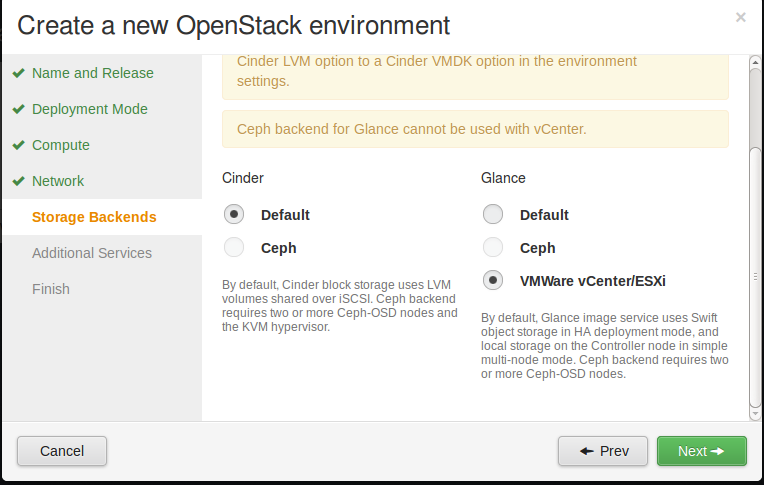
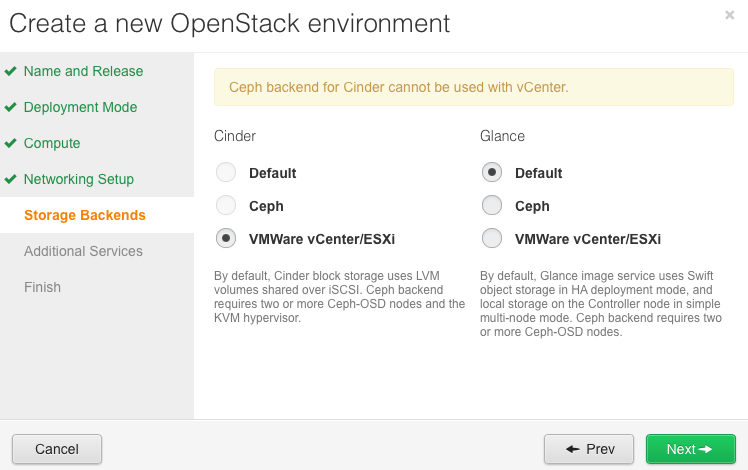
Updates screenshot for vCenter Storage Backend
Parapraph on available option is reworked.

diff --git a/pages/user-guide/7300-vcenter.rst b/pages/user-guide/7300-vcenter.rst
@@ -71,25 +71,17 @@ FlatDHCP manager.
 Choose Backend for Cinder and Glance with vCenter
 +++++++++++++++++++++++++++++++++++++++++++++++++
 
-Ceph cannot be used as a Cinder or Glance backend;
-the only choice here is to leave the default options,
-which are:
-- :ref:`VMDK<vmdk-term>` driver for Cinder.
-- Swift for Glance.
-- VMWare vCenter/:ref:`ESXi<esxi-term>` for Glance.
-
-.. image:: /_images/user_screen_shots/vcenter-cinder.png
-   :width: 50%
-
-VMware vCenter managed datastore is now supported as a backend for Glance;
-select VMWare vCenter/ESXi option to enable it.
+Ceph cannot be used as a Cinder or Glance backend.
+Since Mirantis OpenStack 6.0 supports VMware
+vCenter managed datastore as a backend for Glance,
+select *VMWare vCenter/ESXi* option to enable it.
+Swift option is also available for Glance.
 
 .. image:: /_images/user_screen_shots/vcenter-glance-backend.png
    :width: 50%
 
 After you create the environment, you must enable the VMDK
 driver for Cinder on the Settings tab.
-
 
 .. image:: /_images/user_screen_shots/vcenter-glance-backend.png
    :width: 50%
